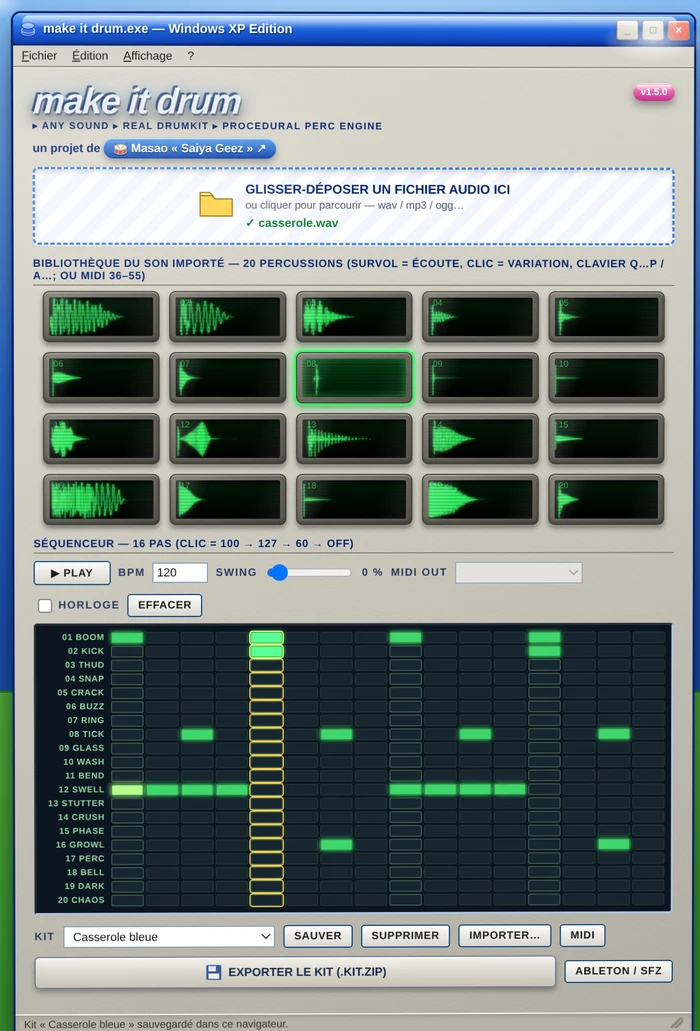
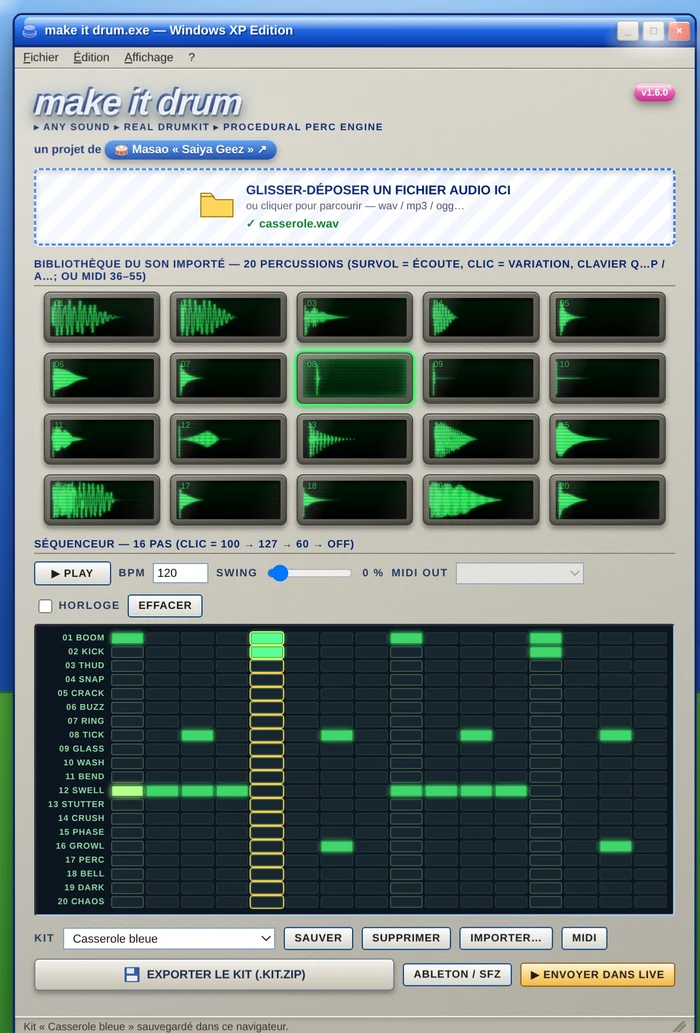
make it drum 1.6 : envoi direct dans Live (compagnon + Remote Script), capture fraîche

diff --git a/index.html b/index.html
@@ -1091,6 +1091,7 @@
           <span class="fc-tag">MIDI</span>
           <span class="fc-tag">Ableton</span>
           <span class="fc-tag">séquenceur</span>
+          <span class="fc-tag">Live</span>
           <span class="fc-tag">PWA</span>
         </div>
         <div class="fc-bottom">
@@ -1219,9 +1220,9 @@
           </div>
           <span class="fc-lang lang-js"><span class="lang-dot"></span> JavaScript</span>
         </div>
-        <img class="fc-shot" src="shots/makeitdrum.webp" alt="make it drum : fenetre Windows XP avec 20 pads de percussions, leurs formes d'onde et le sequenceur 20 x 16 pas" loading="lazy">
+        <img class="fc-shot" src="shots/makeitdrum.webp" alt="make it drum : fenetre Windows XP avec 20 pads de percussions, leurs formes d'onde, le sequenceur 20 x 16 pas et le bouton Envoyer dans Live" loading="lazy">
         <div class="fc-title">make it drum.exe</div>
-        <div class="fc-desc">Un projet de Masao « Saiya Geez » (beacons.ai/saiyageez). N'importe quel son devient un kit de 20 percussions : un moteur Web Audio procédural filtre, replie, sature et résonne le sample importé. Survol = écoute, clic = variation, jouable au clavier (Q…P, A…;) et en MIDI (notes 36–55, vélocité), séquenceur 20 × 16 pas avec sortie MIDI et horloge, kits sauvegardés dans le navigateur et changés à la volée, export .kit.zip pour le plugin VST3 / CLAP ou Drum Rack Ableton (.adg) + SFZ en un clic. Un seul fichier HTML, zéro dépendance, ambiance Windows XP.</div>
+        <div class="fc-desc">Un projet de Masao « Saiya Geez » (beacons.ai/saiyageez). N'importe quel son devient un kit de 20 percussions : un moteur Web Audio procédural filtre, replie, sature et résonne le sample importé. Survol = écoute, clic = variation, jouable au clavier (Q…P, A…;) et en MIDI (notes 36–55, vélocité), séquenceur 20 × 16 pas avec sortie MIDI et horloge, kits sauvegardés dans le navigateur et changés à la volée, export .kit.zip pour le plugin VST3 / CLAP, Drum Rack Ableton (.adg) + SFZ en un clic, ou envoi direct dans Live via un petit compagnon local et un Remote Script. Un seul fichier HTML, zéro dépendance, ambiance Windows XP.</div>
         <div class="fc-tags">
           <span class="fc-tag">Web Audio</span>
           <span class="fc-tag">drum machine</span>
